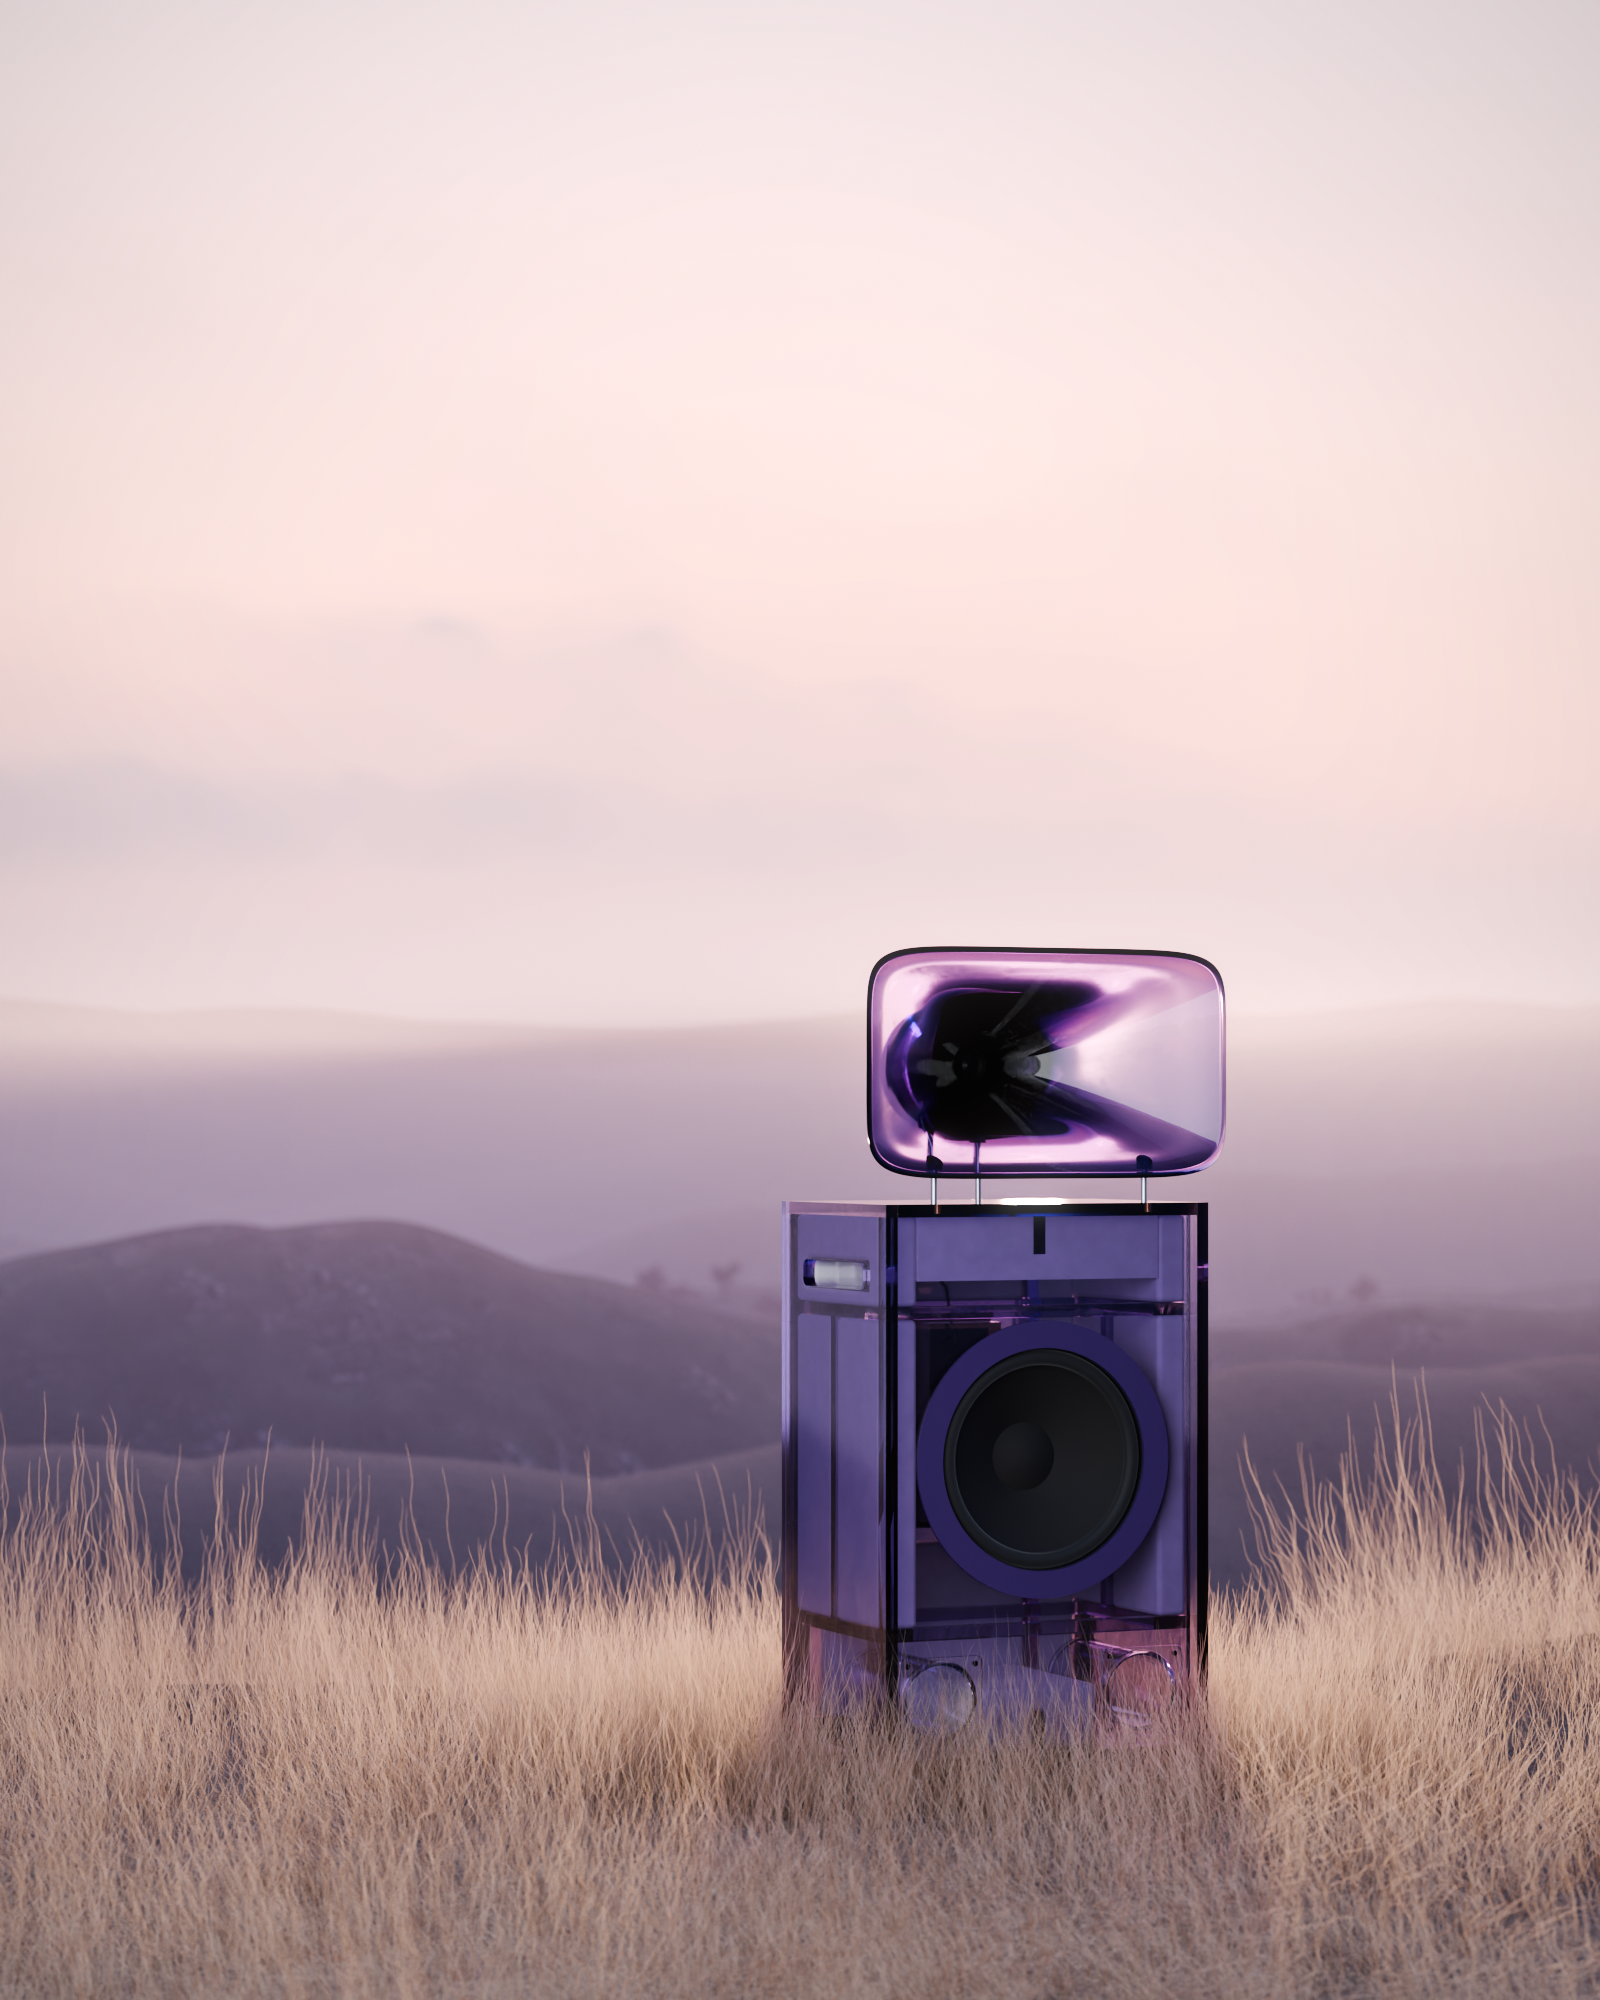
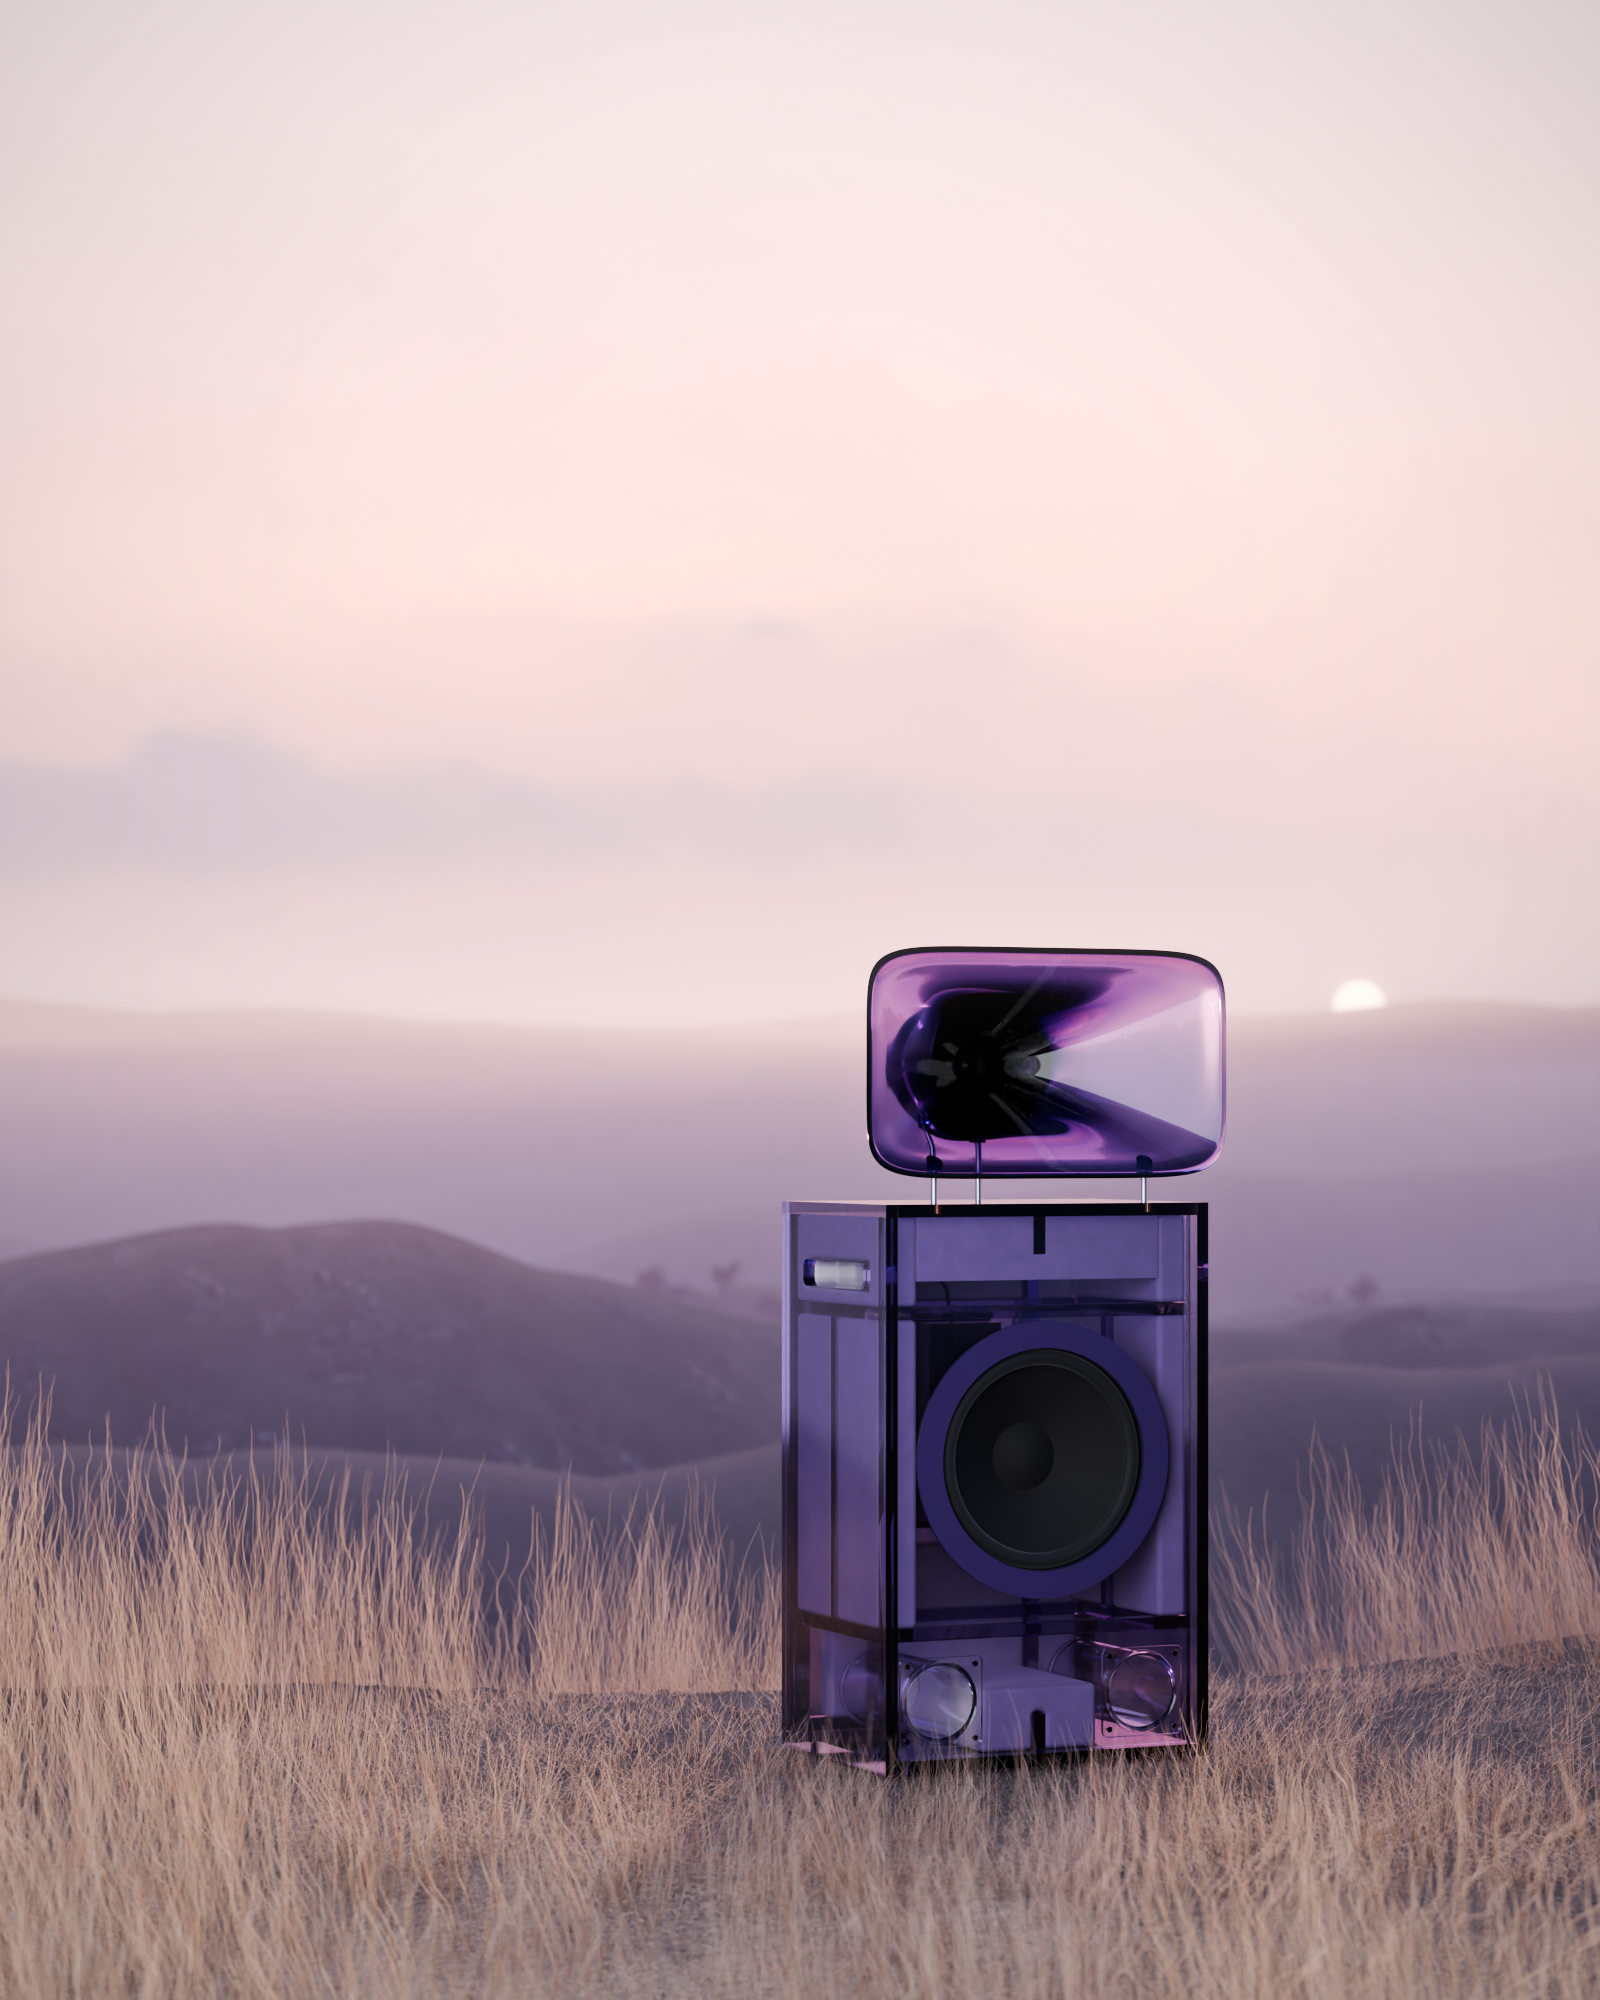
barkhorn round 31b, Haze B: the finals re-rendered with the base in view and the sun clear of the horn; they win the blind duel against the previous finals
Claude-Session: https://claude.ai/code/session_0181P4swKudkkJ9xK6hQT5vo

diff --git a/spinoffs/barkhorn/elements/haze_b.md b/spinoffs/barkhorn/elements/haze_b.md
@@ -126,3 +126,22 @@ to 27); portrait: 74.7 min. Both on four CPU cores. The portrait is re-framed, n
   which stayed the same.
 - **The sun disc touches the horn's top edge** in the final, and the frame is milky (the critic's c2 and c5). These
   are fixable in one more pass, but they would not move the score past the three above.
+
+## After the A/B duel (2026-10-18, a last round at the coordinator's request)
+
+Haze B beat Haze A in the coordinator's three-judge blind duel (2 to 1, mean 6.2 against 5.9) and went on Haze's page.
+All three judges named two faults, both fixed here, and nothing else changed:
+
+- **The base and ports were hidden in the grass.** The grass now grades down toward the speaker's feet (`grade` in
+  `haze_b_el.grass`: the strands' length and density by vertex groups, shortest in the corridor toward the camera, where
+  a blade taller than the sight line to the foot would hide the base; feathered at its sides, so there is no ring).
+  The cleared ring and the denser ring at the feet are gone; a low trodden cover (2 to 7 cm) stays round the feet.
+- **The sun disc sat on the horn's top edge.** Sun, disc and sky turned 3 deg (azimuth 161.5, sky 247.3), so the disc
+  stands in clear haze right of the horn: about 100 px clear in the landscape, about 110 px in the portrait (whose
+  closer camera widens the horn, so its sun and sky turn 1 deg further).
+- The horn's throat is the product's own interior and stays as it is.
+
+Re-rendered in strips at 512 samples: landscape 100 min, portrait 67 min. Blind duel of the new landscape against the
+previous final, two judges, one in each order: new 7.2 / old 6.4, and new 6.5 / old 5.8; both preferred the new frame
+(the base and ports reading, the sun clear of the horn). One judge found the trodden patch in front a little staged.
+The new frames replace the old.
